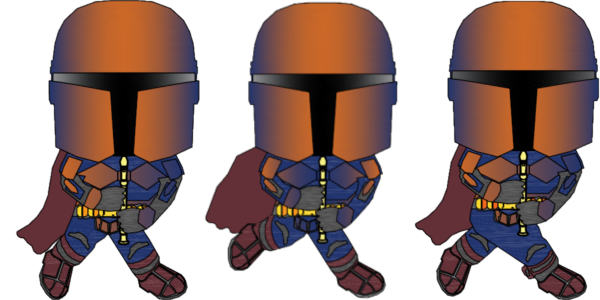
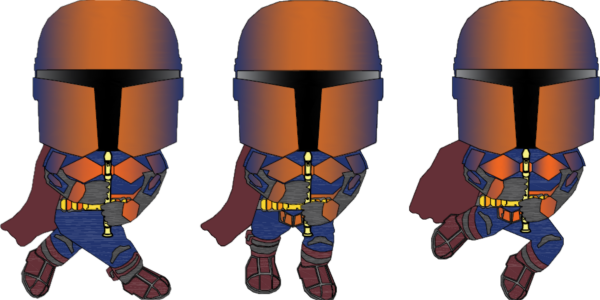
Character motion

diff --git a/src/script.js b/src/script.js
@@ -85,7 +85,7 @@ function create ()
     arrayStep[i] = nextStep;
   }
 
-  player = this.physics.add.sprite(100, 512, 'character').setScale(0.25);
+  player = this.physics.add.sprite(100, 512, 'character').setScale(0.35);
   
   //this.physics.add.collider(player, platforms);
 
@@ -93,7 +93,7 @@ function create ()
   this.anims.create({
     key: 'flying',
     frames: this.anims.generateFrameNumbers('character', { start: 0, end: 2 }),
-    frameRate: 20,
+    frameRate: 5,
     repeat: -1
   });
   player.anims.play('flying');
